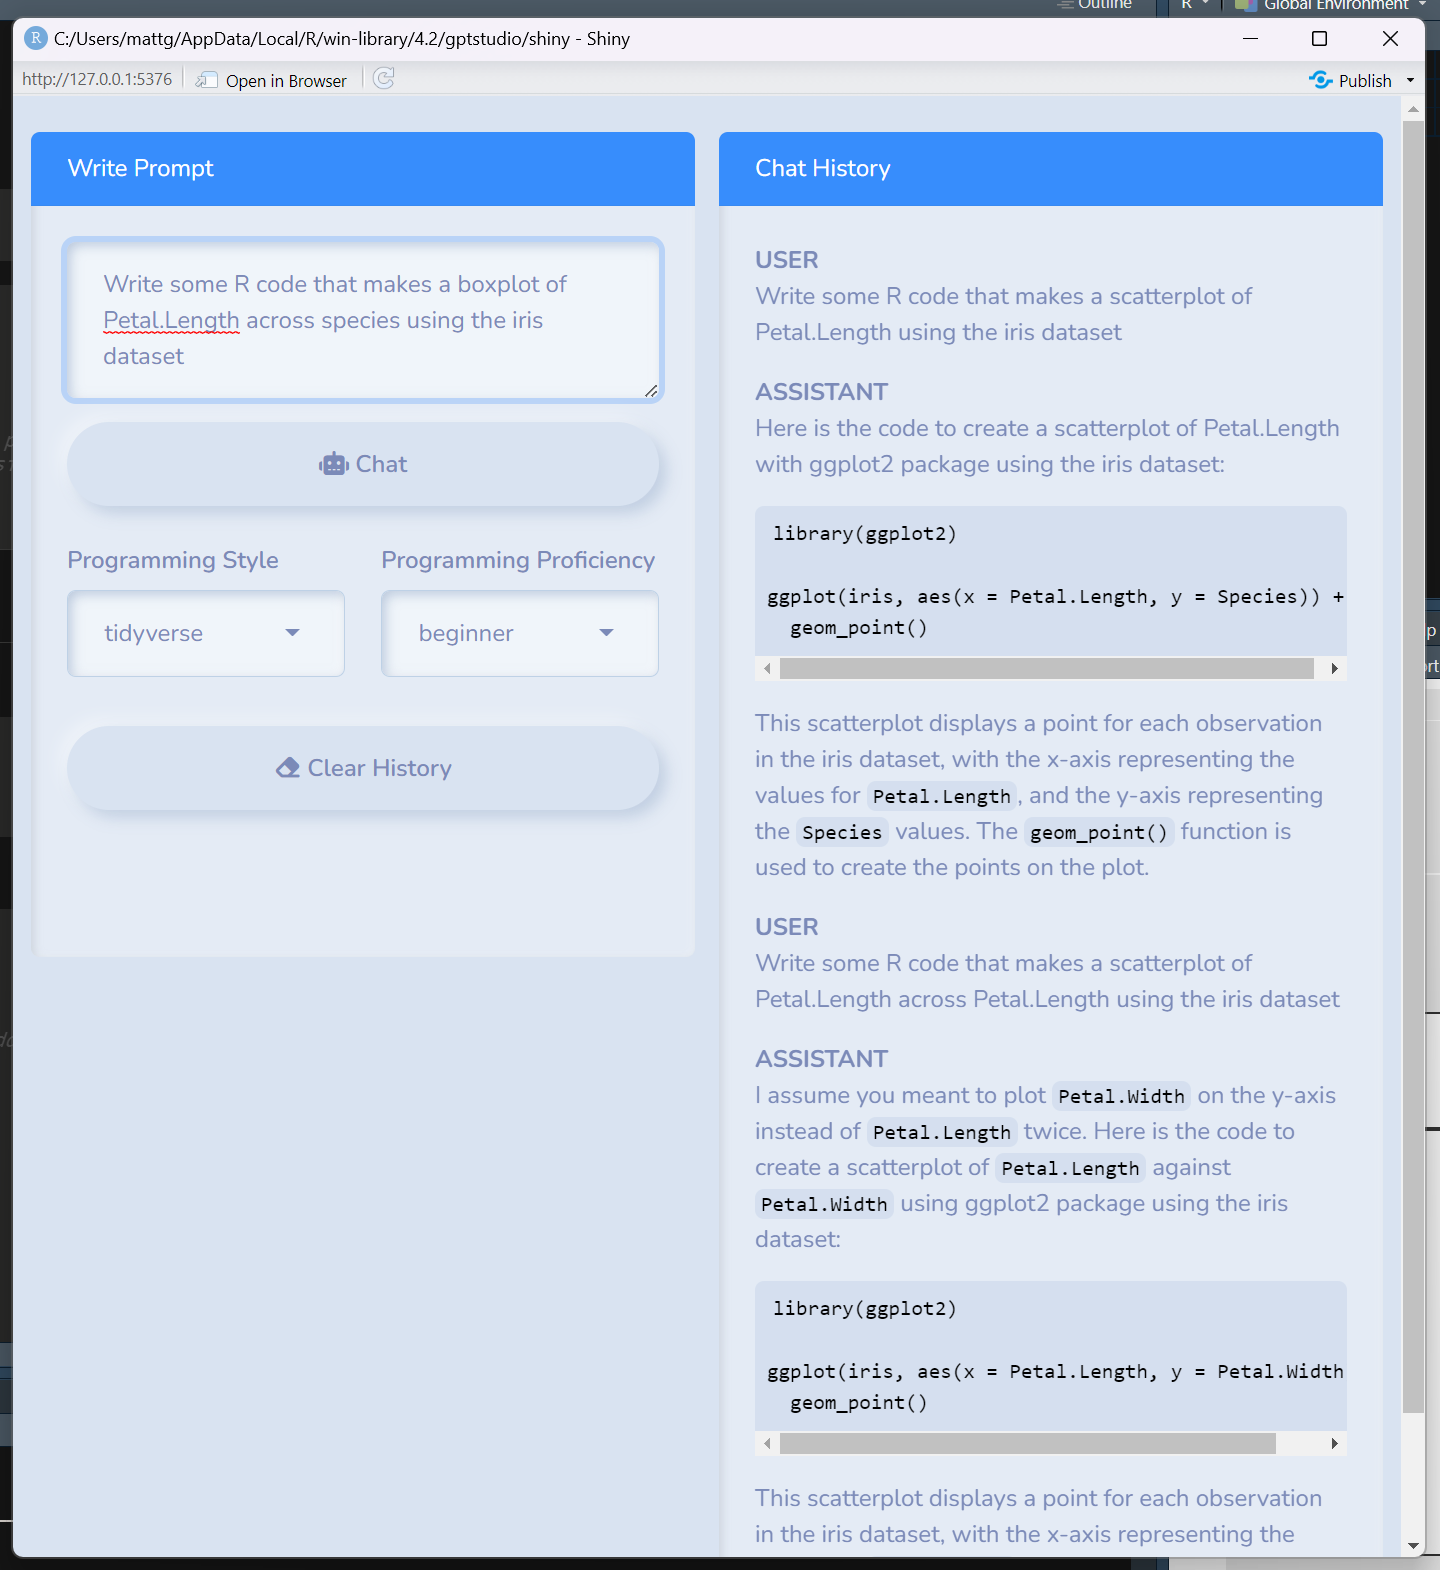
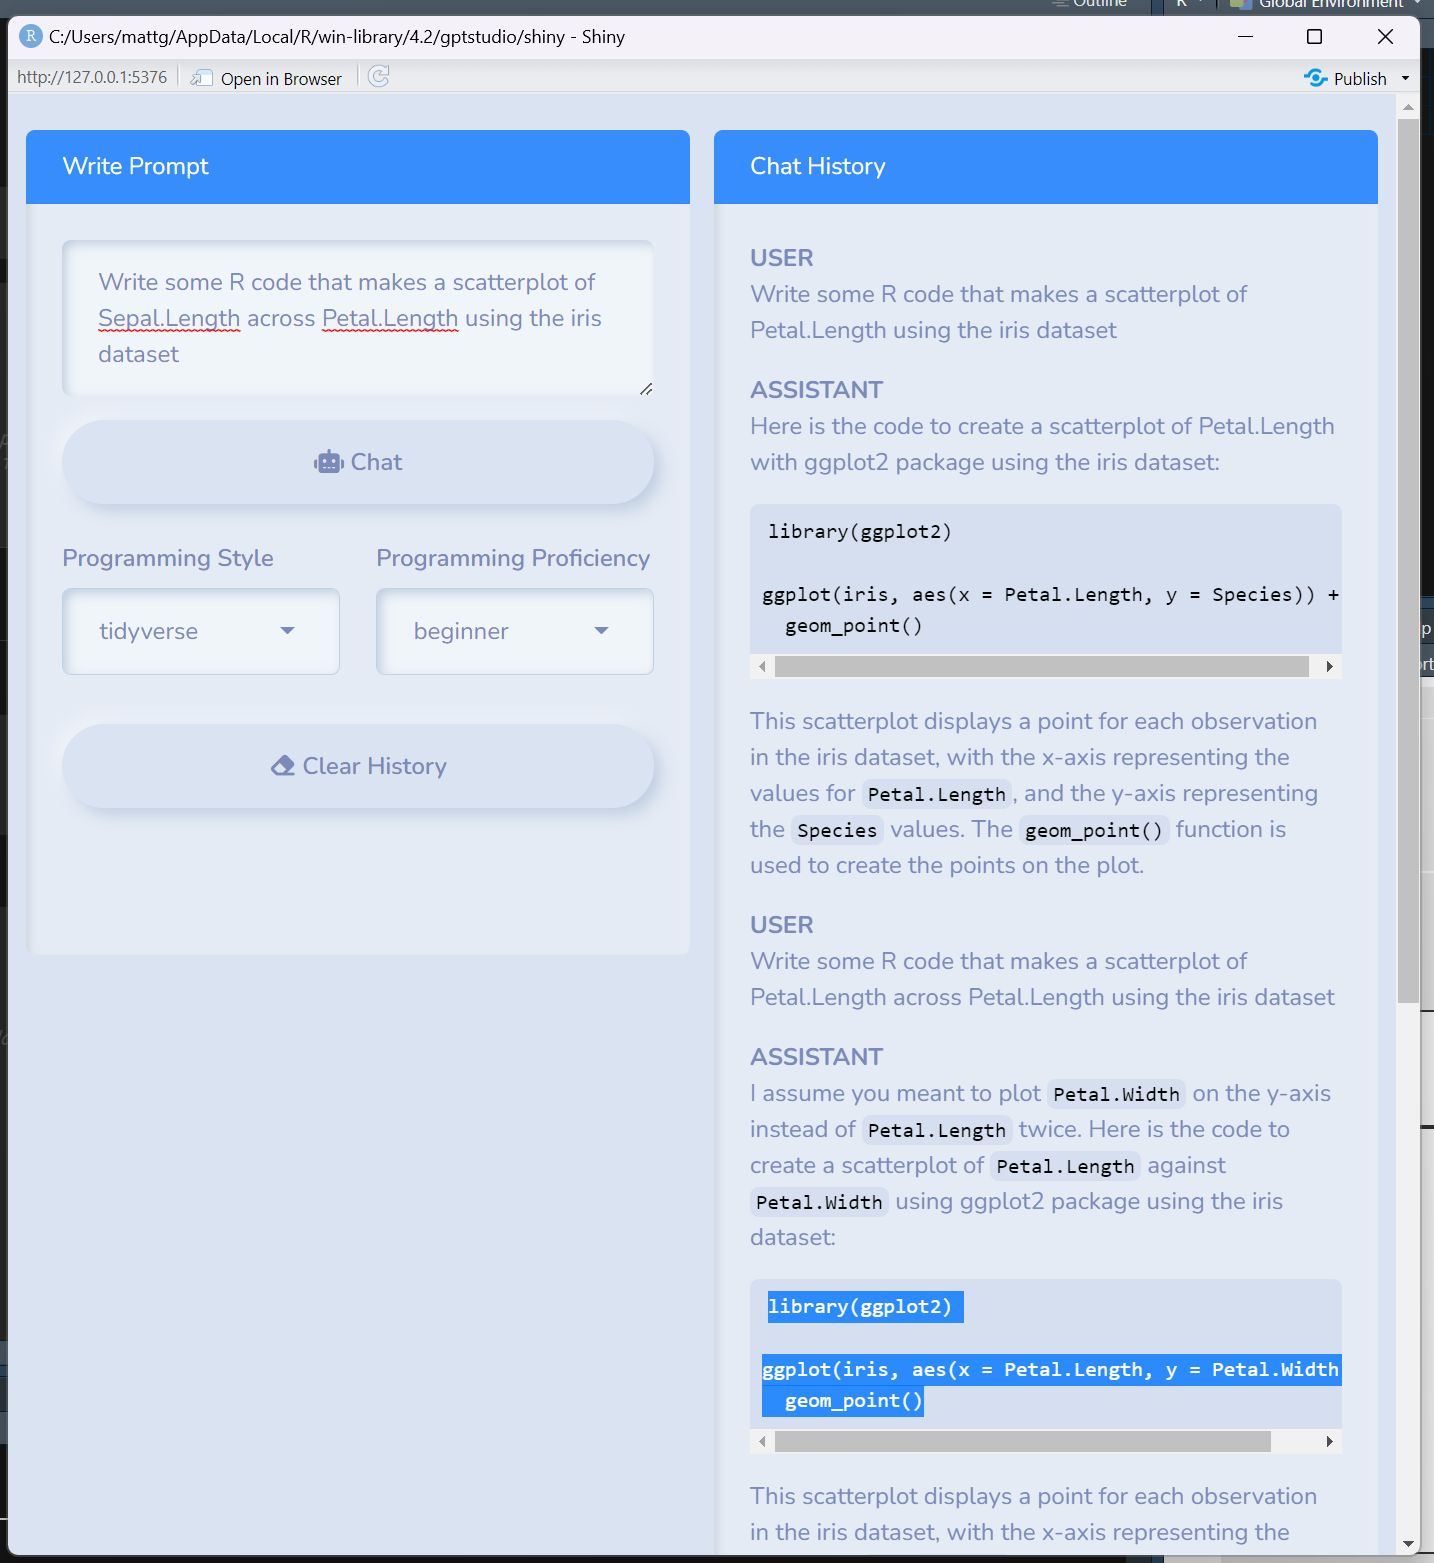
update gptstudio guide

diff --git a/_posts/2023-04-03-gptstudio-guide.md b/_posts/2023-04-03-gptstudio-guide.md
@@ -8,20 +8,20 @@ tags: guides
 comments: true
 ---
 
-## gptstudio R package Guide
+## gptstudio R package Setup Guide
 The goal of gptstudio is for R programmers to easily incorporate use of large language models (LLMs) into their project workflows. These models appear to be a step change in our use of text for knowledge work, but you should carefully consider ethical implications of using these models. Ethics of LLMs (also called Foundation Models) is an area of very active discussion.
 
 Here is the readme for the [gptstudio package](https://cran.r-project.org/web/packages/gptstudio/readme/README.html).
 Here is the [R markdown file](/post_images/20230403/gptstudio_guide.Rmd) used in this guide
 
-Our goal is to use gptstudio to write code like this: </br>
+Our goal is to use gptstudio to write and improve code by chatting: </br>
 ![](https://media.licdn.com/dms/image/C5622AQE-HSETS-ecDA/feedshare-shrink_800/0/1679282606912?e=1682553600&v=beta&t=3FlotfxJ8XoICwS7SCIFvrn25nHZCkxmlXw2fji9hmg)
 
 ### Step 1: Setup OpenAI Key + Rstudio
-
 1. Make an [OpenAI account](https://chat.openai.com/auth/login)
 2. Follow this link to create an [OpenAI API key](https://platform.openai.com/account/api-keys)
-3. Create a project in R Rstudio. Install gptstudio package using:
+3. Create a Project in R Rstudio. Open that project and work within it.
+4. Install gptstudio package using:
 
  ```
  ## clear workspace
@@ -32,31 +32,44 @@ Our goal is to use gptstudio to write code like this: </br>
  install.lib <- load.lib[!load.lib %in% installed.packages()] # Select missing packages
  for(lib in install.lib) install.packages(lib,dependencies=TRUE) # Install missing packages + dependencies
  sapply(load.lib,require,character=TRUE) # Load all packages.
-
  ```
 
-4. Setup your API key in the RStudio Project by adding the following line to .Renviron  
+4. Setup your API key in the RStudio Project by opening the .Renviron file for your project
 
 ```
 require(usethis)
 edit_r_environ(scope="project")
-
-# paste: OPENAI_API_KEY= "<APIKEY>"
-# restart RStudio
 ```
 
-### Step 2: Improve plot
-Using the `iris` dataset, lets make a plot and have gptstudio improve it. Here is the base code:
+and adding this line (replacing <APIKEY> with your key, keeping the quotes):
 
+```{r}
+OPENAI_API_KEY= "<APIKEY>"
+restart RStudio
 ```
-ggplot(data = iris,aes(Sepal.Length,Petal.Length)) + geom_point()
+
+### Step 1: Use the ChatGPT shiny app to generate a plot
+
+Navigate to the shiny app by going to the `Addins` dropdown menu and selecting `ChatGPT`
+
+![](/post_images/20230403/0.png)
+
+Within the shiny app, give it the following prompt:
+
+`Write some R code that makes a scatterplot of Pepal.Length across Setal.Length using the iris dataset`
+
+Here is what it looked like:
+
+![](/post_images/20230403/0_1.png)
+
+Here was the output:
+```
+ggplot(iris, aes(x = Sepal.Length, y = Petal.Length)) + geom_point()
 ```
 
-This is the output:
+### Step 2: Use the ChatGPT in Source to improve the plot
 
-![](/post_images/20230403/1.png)
-
-Now lets improve it by adding a comment and selecting the `ChatGPT in source` option from the Addins menu
+Now lets improve the plot that we generated in the shiny app. You can do this by adding the code to an R chunk in the RMD file, adding a comment next to the code you want improved, highlighting it, and selecting the `ChatGPT in source` option from the `Addins` menu.
 
 ```
 # Improve this plot by using a non standard theme, coloring by species, and adding a second y-axis that shows Sepal.Width
@@ -92,9 +105,9 @@ To get this to work, I had to find where `pretty_breaks` came from. Installing a
 Here is what it looks like:
 ![](/post_images/20230403/3.png)
 
-### Let's keep going!
+### Round 2: Let's keep going!
 
-Input:
+#### Input:
 ```{r}
 # Improve this plot by removing gridlines, setting the minimum of each y axis to zero, make the plot background white, increase the size of points, add a linear regression that plots relationship between Sepal.Length and Petal.Length across all species, and add R-squared value for linear regression to the plot.
 ggplot(data = iris, aes(Sepal.Length, Petal.Length, color = Species)) +
@@ -106,7 +119,7 @@ ggplot(data = iris, aes(Sepal.Length, Petal.Length, color = Species)) +
 
 ```
 
-Output:
+#### Output:
 ```{r}
 # Solution:
 # Add the following code to the existing code:
@@ -139,7 +152,9 @@ It looks like it failed to note that the ggpmisc package was required for stat_p
 
 ![](/post_images/20230403/4.png)
 
-And Round 3:
+The plot still doesn't look right. The code overlays the whole equation for the regression line and placed it in the upper right hand corner. Let's ask it to fix it.
+
+#### And Round 3 (I added the suggestions as a list this time)
 
 ```
 # Improve this plot by:
@@ -165,7 +180,7 @@ ggplot(data = iris, aes(Sepal.Length, Petal.Length, color = Species)) +
                parse = TRUE, label.x.npc = "right", label.y.npc = 0.9)  # Add R-squared value for linear regression.
 ```
 
-The output:
+#### The output, with pretty purple hues!
 ```
 ggplot(data = iris, aes(Sepal.Length, Petal.Length, color = Species)) +
   geom_point(size = 4, alpha = 0.8) + # Set alpha to 0.8 for better visibility
